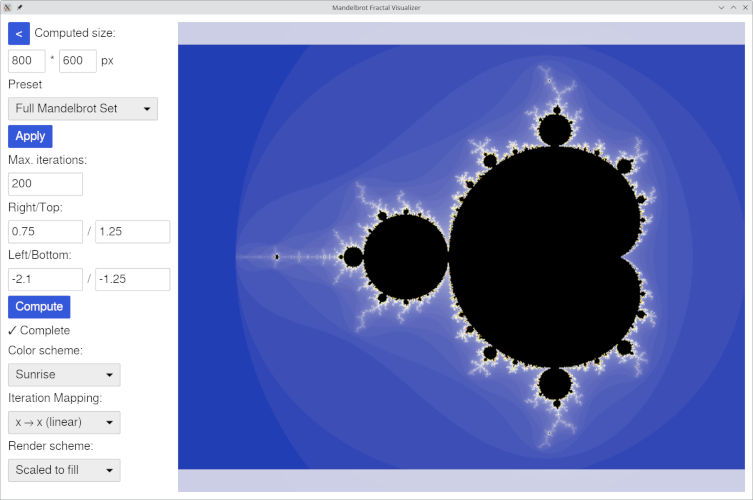
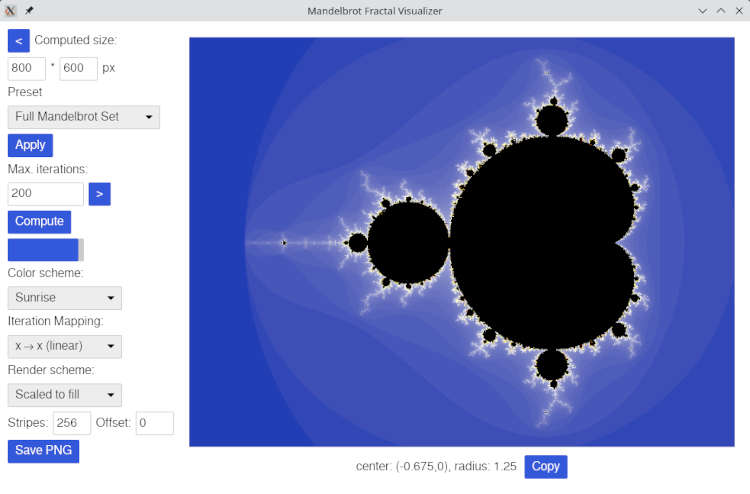
Copy image coordinates to system clipboard
This is an interim solution, to be enhanced significantly in the future.

Changed region(s): [[0.0, 0.0, 1.0, 1.0], [0.3373, 0.668, 0.368, 0.6984]]

diff --git a/src/gui/iced/view.rs b/src/gui/iced/view.rs
@@ -106,16 +106,29 @@ fn render_fractal(app_state: &AppState) -> Element<Message> {
 
 fn open_coordinates_area(state: &AppState) -> Element<Message> {
     container(
-        if state.runtime.canvas_is_dragging || state.runtime.zoom.is_some() {
-            text("…")
-        } else {
-            text(format!(
-                "center: ({},{}), radius: {}",
-                &state.math.area.math_area().center().x.to_string(),
-                &state.math.area.math_area().center().y.to_string(),
-                &state.math.area.math_area().radius().to_string()
-            ))
-        }
+        container(
+            if state.runtime.canvas_is_dragging || state.runtime.zoom.is_some() {
+                row![
+                    text("…").align_y(iced::Alignment::Center),
+                    button("Copy").on_press_maybe(None)
+                ]
+                .align_y(iced::Alignment::Center)
+                .spacing(10)
+            } else {
+                row![
+                    text(format!(
+                        "center: ({},{}), radius: {}",
+                        &state.math.area.math_area().center().x.to_string(),
+                        &state.math.area.math_area().center().y.to_string(),
+                        &state.math.area.math_area().radius().to_string()
+                    ))
+                    .align_y(iced::Alignment::Center),
+                    button("Copy").on_press(Message::CopyCoordinatesToClipboard)
+                ]
+                .align_y(iced::Alignment::Center)
+                .spacing(10)
+            },
+        )
         .align_y(iced::Alignment::Center)
         .align_x(iced::Alignment::Center)
         .width(Length::Fill),

diff --git a/src/gui/iced/update.rs b/src/gui/iced/update.rs
@@ -66,7 +66,7 @@ use crate::storage::computation::comp_storage::CompStorage;
 use crate::storage::image_comp_properties::{ImageCompProperties, StageProperties};
 use crate::storage::visualization::viz_storage::VizStorage;
 use euclid::Point2D;
-use iced::Task;
+use iced::{Task, clipboard};
 use std::sync::Arc;
 use std::time::Duration;
 
@@ -136,6 +136,7 @@ pub fn update(state: &mut AppState, message: Message) -> Task<Message> {
             state.math.area = state.math.area.with_math_area(
                 MathArea::from_rect_f64(state.viz.math_preset.preset().coordinates()).unwrap(),
             );
+            state.math.max_iteration = state.viz.math_preset.preset().max_iteration();
             // Auto-trigger computation with preset parameters
             return Task::perform(async {}, |_| Message::ComputeClicked);
         }
@@ -276,6 +277,15 @@ pub fn update(state: &mut AppState, message: Message) -> Task<Message> {
                 state.viz.gradient_color_offset = value;
                 state.runtime.canvas_cache.clear();
             }
+        }
+        Message::CopyCoordinatesToClipboard => {
+            let rep = format!(
+                "center: ({},{}), radius: {}",
+                &state.math.area.math_area().center().x.to_string(),
+                &state.math.area.math_area().center().y.to_string(),
+                &state.math.area.math_area().radius().to_string()
+            );
+            return clipboard::write(rep);
         }
         Message::ShiftStageStart => {
             state.runtime.canvas_is_dragging = true;

diff --git a/src/gui/iced/message.rs b/src/gui/iced/message.rs
@@ -142,6 +142,9 @@ pub enum Message {
     /// Offset for stripe selection changed
     RenderOffsetChanged(String),
 
+    /// Button clicked to copy coordinates to clipboard
+    CopyCoordinatesToClipboard,
+
     // === Interactive Navigation Messages ===
     /// Drag operation in the FractalCanvas started
     /// Needed so that the app state can update itself correctly

diff --git a/CLAUDE.md b/CLAUDE.md
@@ -40,10 +40,6 @@ The application implements a sophisticated three-layer design with comprehensive
 - ✅ **Preset System**: Curated mathematical regions for exploration
 
 ### Interactive Controls Architecture
-Complete state-based operation system:
-- `CanvasOperation::Idle` - Default state, ready for new interactions
-- `CanvasOperation::Drag` - Active panning with real-time visual feedback
-- `CanvasOperation::Zoom` - Accumulating zoom operations with timeout-based completion
 
 **Navigation Implementation**: Sophisticated interaction system with:
 - **Panning**: Drag-based coordinate translation with deferred computation restart
